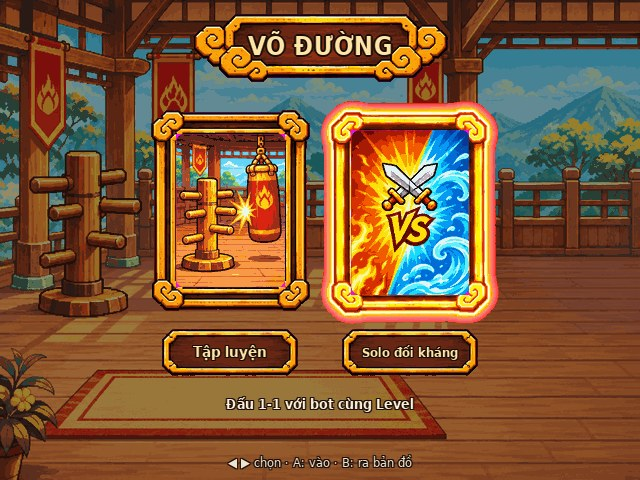
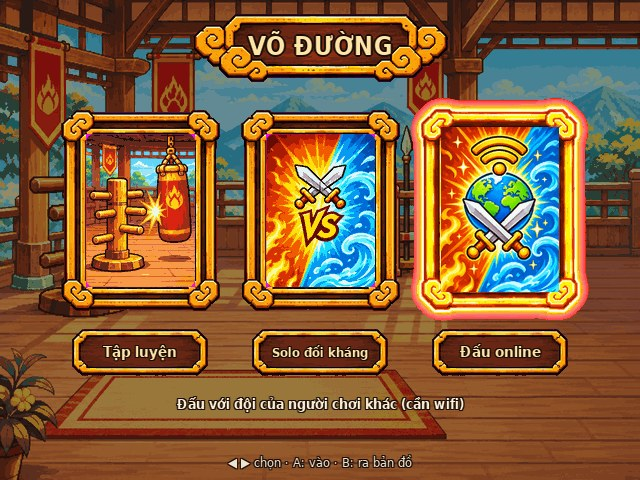
Trang giới thiệu: bản 1.4.3, tải theo từng máy từ GitHub (bỏ RetroHub), thêm Đấu online, ảnh Võ đường 3 thẻ

diff --git a/index.html b/index.html
@@ -3,10 +3,10 @@
 <head>
 <meta charset="utf-8">
 <meta name="viewport" content="width=device-width, initial-scale=1, viewport-fit=cover">
-<title>Elemon · game nuôi pet Ngũ Hành cho TrimUI Brick</title>
-<meta name="description" content="Ấp trứng Ngũ Hành, nuôi tinh linh tới Huyền thoại, đánh trùm năm vùng đất. Game nuôi pet miễn phí cho TrimUI Brick.">
+<title>Elemon · game nuôi pet Ngũ Hành cho máy cầm tay</title>
+<meta name="description" content="Ấp trứng Ngũ Hành, nuôi tinh linh tới Huyền thoại, đánh trùm năm vùng đất. Game nuôi pet miễn phí cho TrimUI Brick, R36S và Miyoo Mini Plus.">
 <meta property="og:title" content="Elemon">
-<meta property="og:description" content="Ấp trứng Ngũ Hành, nuôi tinh linh tới Huyền thoại, đánh trùm năm vùng đất. Game nuôi pet miễn phí cho TrimUI Brick.">
+<meta property="og:description" content="Ấp trứng Ngũ Hành, nuôi tinh linh tới Huyền thoại, đánh trùm năm vùng đất. Game nuôi pet miễn phí cho TrimUI Brick, R36S và Miyoo Mini Plus.">
 <meta property="og:image" content="https://elemon-game.pages.dev/img/title.jpg">
 <meta property="og:url" content="https://elemon-game.pages.dev/">
 <meta name="twitter:card" content="summary_large_image">
@@ -167,6 +167,13 @@ td.he { font: 800 1.35rem/1 var(--pixel); color: var(--c); white-space: nowrap }
 .steps { list-style: none; padding: 0; margin: 0; display: grid; grid-template-columns: repeat(3, 1fr); gap: 20px; counter-reset: st }
 .steps li { counter-increment: st; padding: 20px; display: grid; gap: 8px; align-content: start }
 .steps li::before { content: "0" counter(st); font: 800 2.4rem/1 var(--pixel); color: var(--gold); text-shadow: 3px 3px 0 var(--black) }
+.dl { grid-template-columns: repeat(2, 1fr) }
+.dl li { gap: 10px }
+.dl li::before { content: none }
+.dl h3 { color: var(--gold); font-size: 1.9rem }
+.dl .fw { font: 1.2rem/1.3 var(--term); color: var(--mist) }
+.dl .btn { justify-self: start; margin-top: 6px; font-size: 1.35rem }
+.ota.online li::before { content: "▶" }
 .facts { display: grid; grid-template-columns: repeat(4, 1fr); gap: 0; margin-top: 28px }
 .facts div { padding: 18px; display: grid; gap: 4px; min-width: 0; border-right: 2px dashed var(--line) }
 .facts div:last-child { border-right: 0 }
@@ -204,7 +211,7 @@ footer .wrap { display: flex; flex-wrap: wrap; gap: 8px 24px; justify-content: s
 
 @media (max-width: 900px) {
   .acts, .g4 { grid-template-columns: repeat(2, 1fr) }
-  .ota, .steps { grid-template-columns: 1fr }
+  .ota, .steps, .dl { grid-template-columns: 1fr }
   .pets { grid-template-columns: repeat(4, minmax(0, 1fr)) }
 }
 @media (max-width: 820px) {
@@ -230,13 +237,13 @@ footer .wrap { display: flex; flex-wrap: wrap; gap: 8px 24px; justify-content: s
     <p class="eyebrow">Game nuôi pet · máy cầm tay</p>
     <h1 class="logo"><img src="img/game/logo.webp" alt="Elemon" width="760" height="268"></h1>
     <p class="lede">Ấp một quả trứng Ngũ Hành, chăm tinh linh của bạn từng bữa ăn giấc ngủ, nuôi nó từ lúc lọt lòng tới Huyền thoại, rồi dẫn nó đi đánh trùm khắp năm vùng đất.</p>
-    <p class="sub">Viết riêng cho TrimUI Brick. Chơi bằng D-pad, không cần mạng, miễn phí, cập nhật ngay trên máy.</p>
+    <p class="sub">Chạy trên TrimUI Brick, Smart Pro, R36S và Miyoo Mini Plus. Chơi bằng D-pad, không cần mạng, miễn phí, cập nhật ngay trên máy. Có wifi thì đấu với bạn bè.</p>
     <p class="press" aria-hidden="true">▶ BẤM A ĐỂ BẮT ĐẦU</p>
     <div class="cta">
-      <a class="btn" href="https://retrohub.info/store/app/elemon">Tải trên RetroHub</a>
-      <a class="btn ghost" href="#cai-dat">Cách cài</a>
+      <a class="btn" href="#tai-ve">Tải Elemon</a>
+      <a class="btn ghost" href="#dau-online">Đấu online</a>
     </div>
-    <p class="meta" style="margin-top:14px">v1.1 · 594 MB · firmware gốc của Brick / Brick Pro</p>
+    <p class="meta" style="margin-top:14px">v1.4.3 · khoảng 600 MB · Brick, NX Redux, R36S, Miyoo Mini Plus</p>
   </div>
   <div class="brick" aria-hidden="true">
     <div class="screen"><img src="img/title.jpg" alt="" width="640" height="480"></div>
@@ -247,7 +254,7 @@ footer .wrap { display: flex; flex-wrap: wrap; gap: 8px 24px; justify-content: s
 <nav class="wrap toc" aria-label="Các phần">
   <a href="#cham-soc">Chăm pet</a><a href="#chi-so">Chỉ số</a><a href="#lon-len">Tiến hóa</a><a href="#noi">Pet biết nói</a>
   <a href="#hoat-dong">Hoạt động</a><a href="#vo-duong">Võ đường</a><a href="#vung-dat">Vùng đất</a><a href="#dau-truong">Đấu trường</a>
-  <a href="#cap-nhat">Cập nhật</a><a href="#cai-dat">Cài đặt</a>
+  <a href="#dau-online">Đấu online</a><a href="#cap-nhat">Cập nhật</a><a href="#tai-ve">Tải về</a>
 </nav>
 
 <main>
@@ -330,7 +337,7 @@ footer .wrap { display: flex; flex-wrap: wrap; gap: 8px 24px; justify-content: s
       <div class="text">
         <p class="eyebrow">Lớn lên</p>
         <h2>Năm bậc tiến hóa, mỗi lần một cái tên mới</h2>
-        <p>Đủ cấp và đủ điều kiện là pet tiến hóa: thân hình đổi hẳn, mở thêm ô khảm ngọc. Sau mỗi lần tiến hóa bạn đặt lại tên bằng bàn phím có <strong>đủ dấu tiếng Việt</strong>.</p>
+        <p>Đủ cấp và đủ điều kiện là pet tiến hóa: thân hình đổi hẳn, mở thêm ô khảm ngọc. Trứng vừa nở là bạn đặt tên cho pet, và sau mỗi lần tiến hóa lại được đặt tên mới, bằng bàn phím có <strong>đủ dấu tiếng Việt</strong>.</p>
         <ol class="evo" aria-label="Năm bậc của Hỏa Hổ"><li><span class="spr" style="--w:110;--h:106;--d:-0.42s"><img src="img/game/evo-baby.webp" alt="Hỏa Hổ bậc Con" width="440" height="106" loading="lazy"></span><span class="n">1</span>Con</li><li><span class="spr" style="--w:141;--h:141;--d:-0.79s"><img src="img/game/evo-child.webp" alt="Hỏa Hổ bậc Nhi" width="564" height="141" loading="lazy"></span><span class="n">2</span>Nhi</li><li><span class="spr" style="--w:159;--h:181;--d:-0.26s"><img src="img/game/evo-teen.webp" alt="Hỏa Hổ bậc Thiếu niên" width="636" height="181" loading="lazy"></span><span class="n">3</span>Thiếu niên</li><li><span class="spr" style="--w:211;--h:220;--d:-0.63s"><img src="img/game/evo-adult.webp" alt="Hỏa Hổ bậc Trưởng thành" width="844" height="220" loading="lazy"></span><span class="n">4</span>Trưởng thành</li><li><span class="spr" style="--w:211;--h:220;--d:-0.10s"><img src="img/game/evo-legend.webp" alt="Hỏa Hổ bậc Huyền thoại" width="844" height="220" loading="lazy"></span><span class="n">5</span>Huyền thoại</li></ol>
       </div>
       <div class="g2">
@@ -410,8 +417,9 @@ footer .wrap { display: flex; flex-wrap: wrap; gap: 8px 24px; justify-content: s
         <p class="eyebrow">Võ đường</p>
         <h2>Tập cho khỏe trước khi ra trận</h2>
         <p>Đấm theo nhịp để tăng Sức mạnh, đấu Solo với bot để tăng Tinh thần. Mỗi bài tính điểm một buổi mỗi ngày, nên tập đều quan trọng hơn tập dồn. Đánh nhau tốn sức thật: mất Năng lượng, No, Sạch, và máu mất đi trừ vào Sức khỏe.</p>
+        <p>Thẻ thứ ba là <a href="#dau-online">Đấu online</a>: đấu qua wifi với máy bên cạnh, hoặc đấu với đội của người chơi khác qua mạng.</p>
       </div>
-      <figure><img class="shot" src="img/vo-duong.jpg" alt="Võ đường với hai thẻ Tập luyện và Solo đối kháng" width="640" height="480" loading="lazy"><figcaption>Tập luyện · Solo đối kháng</figcaption></figure>
+      <figure><img class="shot" src="img/vo-duong.jpg" alt="Võ đường với ba thẻ Tập luyện, Solo đối kháng và Đấu online" width="640" height="480" loading="lazy"><figcaption>Tập luyện · Solo đối kháng · Đấu online</figcaption></figure>
     </div>
   </section>
 
@@ -462,12 +470,27 @@ footer .wrap { display: flex; flex-wrap: wrap; gap: 8px 24px; justify-content: s
     </div>
   </section>
 
+  <section class="band" id="dau-online">
+    <div class="wrap">
+      <div class="head">
+        <p class="eyebrow">Đấu online · mới ở 1.4.3</p>
+        <h2>Mang pet đi đấu với người thật</h2>
+        <p>Vào <strong>Võ đường → Đấu online</strong>. Không có wifi thì game vẫn chơi bình thường, chỉ phần này cần mạng.</p>
+      </div>
+      <ol class="ota online">
+        <li><h3>Đấu qua wifi</h3><p>Hai máy chung một wifi: một bên mở phòng, bên kia vào. Đấu 3 hiệp trực tiếp, mỗi pet đúng dáng và đúng chiêu của nó. Brick, Smart Pro, R36S, Miyoo đấu chung được, miễn là cùng bản game.</p></li>
+        <li><h3>Tải đội lên</h3><p>Gửi tối đa 3 pet của bạn lên máy chủ. Người khác đấu với đội của bạn cả lúc bạn tắt máy: pet giữ đúng dáng và chỉ số của nó.</p></li>
+        <li><h3>Tìm đối thủ, leo hạng</h3><p>Chọn một đội cùng tầm cấp, chọn pet rồi vào trận. Thắng thua đều được ghi điểm trên Bảng xếp hạng.</p></li>
+      </ol>
+    </div>
+  </section>
+
   <section class="band" id="cap-nhat">
     <div class="wrap">
       <div class="head">
         <p class="eyebrow">Cập nhật ngay trên máy</p>
         <h2>Có bản mới thì bấm A, không cần cắm máy tính</h2>
-        <p>Vào <strong>Cài đặt → Cập nhật</strong> khi máy có wifi. Game chỉ tải những file đã đổi, không tải lại cả gói.</p>
+        <p>Vào <strong>Cài đặt → Cập nhật</strong> khi máy có wifi. Game chỉ tải những file đã đổi, không tải lại cả gói, và đang ở bản cũ nào cũng lên thẳng bản mới nhất. Có trên Brick, NX Redux và R36S.</p>
       </div>
       <ol class="ota">
         <li><h3>Kiểm tra</h3><p>Game hỏi máy chủ có bản mới không, báo số file và dung lượng cần tải.</p></li>
@@ -478,24 +501,24 @@ footer .wrap { display: flex; flex-wrap: wrap; gap: 8px 24px; justify-content: s
     </div>
   </section>
 
-  <section class="band" id="cai-dat">
+  <section class="band" id="tai-ve">
     <div class="wrap">
       <div class="head">
-        <p class="eyebrow">Cài trong 3 bước</p>
-        <h2>Chép vào thẻ là chơi</h2>
+        <p class="eyebrow">Tải về · v1.4.3</p>
+        <h2>Chọn đúng bản cho máy của bạn</h2>
+        <p>Mỗi máy một gói riêng, khoảng 600 MB. Link luôn là bản mới nhất. Đã cài rồi thì khỏi tải lại: vào <strong>Cài đặt → Cập nhật</strong> trong game.</p>
       </div>
-      <ol class="steps">
-        <li><h3>Tải gói</h3><p>Tải Elemon trên <a href="https://retrohub.info/store/app/elemon">RetroHub</a>.</p></li>
-        <li><h3>Chép vào thẻ</h3><p>Giải nén, chép thư mục <code>Apps</code> vào gốc thẻ nhớ của Brick.</p></li>
-        <li><h3>Mở game</h3><p>Bật máy, vào mục <strong>Apps</strong>, chọn <strong>Elemon</strong>.</p></li>
+      <ol class="steps dl">
+        <li><h3>TrimUI Brick</h3><p class="fw">Firmware gốc của Brick / Brick Pro</p><p>Giải nén, chép thư mục <code>Apps</code> vào gốc thẻ nhớ. Bật máy, vào <strong>Apps</strong>, chọn <strong>Elemon</strong>.</p><p class="meta">Bản lưu: <code>Saves/elemon/</code></p>
+          <a class="btn" href="https://github.com/kipoikibo995-sys/elemon/releases/latest/download/Elemon_Brick_Stock.zip">Tải bản TrimUI Brick</a></li>
+        <li><h3>NX Redux</h3><p class="fw">TrimUI Brick, Smart Pro chạy NX Redux</p><p>Giải nén, chép thư mục <code>Tools</code> vào gốc thẻ nhớ. Vào <strong>Tools</strong>, chọn <strong>Elemon</strong>.</p><p class="meta">Bản lưu: <code>Saves/elemon/</code></p>
+          <a class="btn" href="https://github.com/kipoikibo995-sys/elemon/releases/latest/download/Elemon_Brick_NXRedux.zip">Tải bản NX Redux</a></li>
+        <li><h3>R36S</h3><p class="fw">ArkOS, dArkOS, AmberELEC, máy có PortMaster (Anbernic RG40XXV chạy muOS, Knulli...)</p><p>Giải nén, chép <code>Elemon.sh</code> và thư mục <code>elemon</code> trong <code>ports</code> vào thư mục ports của thẻ. Vào <strong>Ports</strong>, chọn <strong>Elemon</strong>.</p><p class="meta">Bản lưu: <code>ports/elemon-save/</code></p>
+          <a class="btn" href="https://github.com/kipoikibo995-sys/elemon/releases/latest/download/Elemon_R36S.zip">Tải bản R36S</a></li>
+        <li><h3>Miyoo Mini Plus (bản thử)</h3><p class="fw">OnionOS hoặc firmware gốc · chưa có cập nhật trong game</p><p>Giải nén, chép thư mục <code>App</code> vào gốc thẻ nhớ. Vào <strong>Apps</strong>, chọn <strong>Elemon</strong>. Bản mới: chép đè lên.</p><p class="meta">Bản lưu: <code>Saves/elemon/</code></p>
+          <a class="btn" href="https://github.com/kipoikibo995-sys/elemon/releases/latest/download/Elemon_MiyooMiniPlus.zip">Tải bản Miyoo Mini Plus</a></li>
       </ol>
-      <dl class="facts">
-        <div><dt>Máy</dt><dd>TrimUI Brick / Brick Pro</dd></div>
-        <div><dt>Hệ điều hành</dt><dd>Firmware gốc</dd></div>
-        <div><dt>Dung lượng</dt><dd>594 MB</dd></div>
-        <div><dt>Bản lưu</dt><dd><code>Saves/elemon/</code></dd></div>
-      </dl>
-      <p class="meta" style="margin-top:14px">Phím: D-pad đi và chọn · A đồng ý · B quay lại · SELECT trong phòng về màn chào · START trong phòng mở Cài đặt. Thoát: nút Thoát game ở màn chào, hoặc giữ SELECT + START. Nút âm lượng của máy chỉnh tiếng game.</p>
+      <p class="meta" style="margin-top:18px">Phím: D-pad đi và chọn · A đồng ý · B quay lại · SELECT trong phòng về màn chào · START trong phòng mở Cài đặt. Thoát: nút Thoát game ở màn chào, hoặc giữ SELECT + START. Nút A và B bị ngược thì xem hướng dẫn trong gói. Các bản cũ: <a href="https://github.com/kipoikibo995-sys/elemon/releases">trang phát hành</a>.</p>
     </div>
   </section>
 
@@ -504,7 +527,7 @@ footer .wrap { display: flex; flex-wrap: wrap; gap: 8px 24px; justify-content: s
       <div class="lineup"><span class="spr" style="--w:211;--h:220;--d:-0.24s"><img src="img/game/pet-hoa-ho.webp" alt="Hỏa Hổ" width="844" height="220" loading="lazy"></span><span class="spr" style="--w:197;--h:232;--d:-0.61s"><img src="img/game/pet-kim-te.webp" alt="Kim Tê" width="788" height="232" loading="lazy"></span><span class="spr" style="--w:224;--h:226;--d:-0.08s"><img src="img/game/pet-moc-hung.webp" alt="Mộc Hùng" width="896" height="226" loading="lazy"></span><span class="spr" style="--w:206;--h:234;--d:-0.45s"><img src="img/game/pet-thuy-sa.webp" alt="Thủy Sa" width="824" height="234" loading="lazy"></span><span class="spr" style="--w:210;--h:233;--d:-0.82s"><img src="img/game/pet-tho-nguu.webp" alt="Thổ Ngưu" width="840" height="233" loading="lazy"></span></div>
       <h2>Trứng đang chờ nở</h2>
       <p>Miễn phí, không quảng cáo, không cần mạng để chơi.</p>
-      <a class="btn" href="https://retrohub.info/store/app/elemon">Tải Elemon trên RetroHub</a>
+      <a class="btn" href="#tai-ve">Chọn bản cho máy của bạn</a>
       <p class="ai-note"><strong>Muốn cài bản AI?</strong> Liên hệ trực tiếp với tác giả qua Facebook.</p>    </div>
   </section>
 </main>
@@ -512,7 +535,7 @@ footer .wrap { display: flex; flex-wrap: wrap; gap: 8px 24px; justify-content: s
 <footer>
   <div class="wrap">
     <span>Elemon · game làm tay cho máy cầm tay</span>
-    <span>Gặp lỗi? Bình luận trên <a href="https://retrohub.info/store/app/elemon">RetroHub</a>, kèm file <code>Apps/Elemon/log.txt</code></span>
+    <span>Gặp lỗi? Báo trên <a href="https://github.com/kipoikibo995-sys/elemon/issues">GitHub</a>, kèm file <code>log.txt</code> trong thư mục game</span>
   </div>
 </footer>
 </body>
